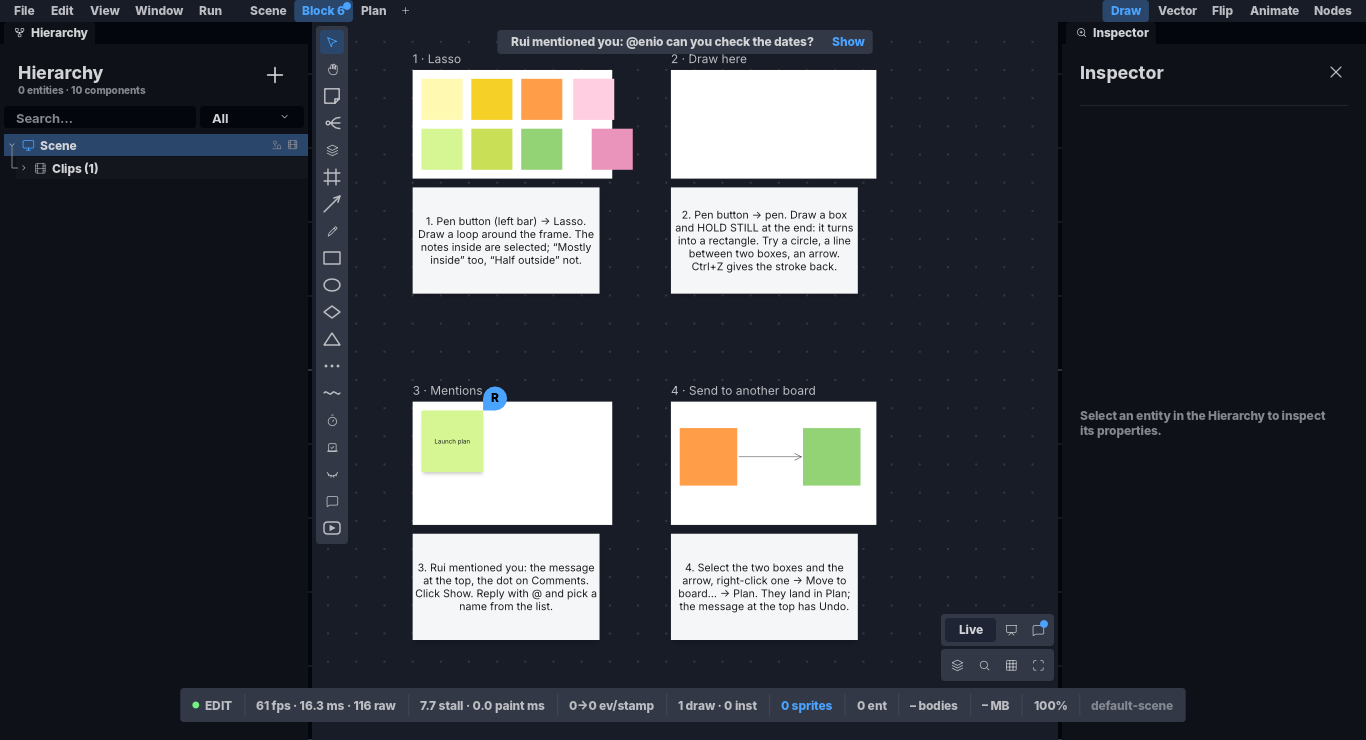
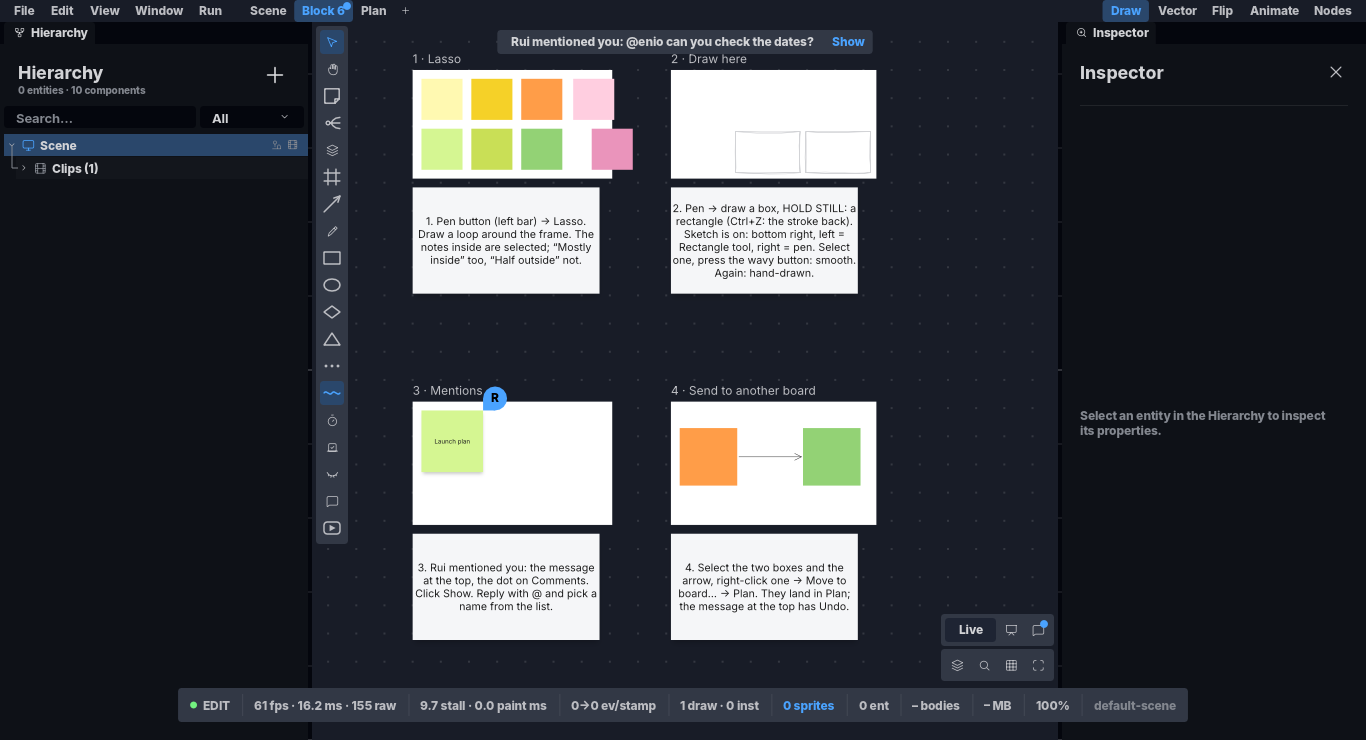
feat(MiroClone W23 Sketch): a cena 28 abre em Rascunho com a caixa da ferramenta e a da caneta em ② (nascidas ao zoom de abertura), a lição ② da ondinha, e as fotos a 1366 e 1930

diff --git a/crates/ph2d-app-board/src/smoke_w23_block6.rs b/crates/ph2d-app-board/src/smoke_w23_block6.rs
@@ -3,6 +3,8 @@
 //! «Plan» por trás. ① o laço (seis ideias dentro, uma quase toda dentro, uma meio fora); ② um frame
 //! vazio para desenhar e segurar; ③ uma nota com um fio do Rui que CHEGA ao abrir e chama quem está a
 //! usar o PH2D (o aviso, a bolinha); ④ duas caixas ligadas por uma seta para «Move to board…».
+//! O quadro abre em RASCUNHO, com um rectângulo da ferramenta e um da caneta no canto de ② nascidos ao
+//! zoom de abertura a 1366 (auditoria do Sketch, 21/10: de longe o rascunho ficava liso).
 //! O gate `the_block6_scene_arms_its_four_stations` conduz o que a cena arma.
 
 use ph2d_board_model::{
@@ -24,6 +26,8 @@ pub(crate) struct Block6 {
     pub most: ElementId,
     pub half: ElementId,
     pub send: [ElementId; 3],
+    /// Os exemplos do rascunho em ②: o da ferramenta e o da caneta.
+    pub sketched: [ElementId; 2],
 }
 
 const SIDE: f64 = 140.0;
@@ -40,6 +44,12 @@ const F2: [f64; 4] = [F1[2] + 200.0, 0.0, 700.0, F1[3]];
 const ROW2: f64 = F1[3] + 760.0;
 const F3: [f64; 4] = [0.0, ROW2, F1[2], 420.0];
 const F4: [f64; 4] = [F2[0], ROW2, F2[2], 420.0];
+/// Os exemplos do rascunho no canto de baixo à direita de ②: a caixa e o vão.
+const EXAMPLE: [f64; 2] = [220.0, 140.0];
+const EXAMPLE_GAP: f64 = 20.0;
+/// A escala de nascença dos exemplos: a do zoom com que a cena abre a 1366 (~0,293, um px = 3,4 do
+/// mundo; quartos de oitava, `BirthScale::of_px`).
+const OPEN_BIRTH: ph2d_board_model::BirthScale = ph2d_board_model::BirthScale(7);
 
 /// A cena; devolve os ids que o gate conduz.
 pub(crate) fn scene_block6(hero: &mut HeroScreen) -> Block6 {
@@ -82,6 +92,7 @@ pub(crate) fn scene_block6(hero: &mut HeroScreen) -> Block6 {
         [edge - 0.5 * SIDE, GAP + SIDE + GAP, SIDE],
     );
     super::organize::frame(doc, tr("board.smoke.b6.f2"), F2, None);
+    let sketched = examples(doc, &style);
     super::organize::frame(doc, tr("board.smoke.b6.f3"), F3, None);
     let launch = super::put_note(
         doc,
@@ -123,6 +134,7 @@ pub(crate) fn scene_block6(hero: &mut HeroScreen) -> Block6 {
             [f[0], f[1] + f[3] + GAP, f[2].min(2.0 * STICKY_SIDE * 1.6)],
         );
     }
+    set.get_mut(board).expect("acabou de nascer").sketch = true;
     document_tabs::load(hero, set);
     hero.documents.activate(Some(board));
     board_nav::show(hero, false, false);
@@ -151,7 +163,38 @@ pub(crate) fn scene_block6(hero: &mut HeroScreen) -> Block6 {
         most,
         half,
         send: [a, b, arrow],
+        sketched,
     }
+}
+
+/// ② — o rectângulo da FERRAMENTA e o da CANETA + segurar, em rascunho, nascidos ao zoom de abertura:
+/// o da caneta com a cor da caneta e o resto do estilo da ferramenta (a lei do `smart_style`).
+fn examples(
+    doc: &mut ph2d_board_model::BoardDoc,
+    style: &ph2d_board_model::Style,
+) -> [ElementId; 2] {
+    let mut tool = style.clone();
+    tool.fill = None;
+    tool.sketch = true;
+    tool.reborn(OPEN_BIRTH);
+    let mut pen = tool.clone();
+    let ink = ph2d_board_model::Rgba(ph2d_board_model::DEFAULT_INK);
+    (pen.stroke, pen.text_color) = (Some(ink), ink);
+    let y = F2[1] + F2[3] - EXAMPLE[1] - EXAMPLE_GAP;
+    let x = |k: f64| F2[0] + F2[2] - (2.0 - k) * (EXAMPLE[0] + EXAMPLE_GAP);
+    let at = |k: f64| [x(k), y, EXAMPLE[0], EXAMPLE[1]];
+    // Sem rótulo: a esta distância a letra (de mundo) é um risco; a lição ② diz qual é qual.
+    [(tool, 0.0), (pen, 1.0)].map(|(style, k)| {
+        let shape = ph2d_board_model::Shape {
+            kind: ShapeType::Rectangle,
+            style,
+            text: Default::default(),
+        };
+        let el = ph2d_board_model::Element::new_shape(doc.mint_id(), doc.z_on_top(), shape, at(k));
+        let id = el.id;
+        ph2d_board_model::BoardOp::Put(el).apply(doc);
+        id
+    })
 }
 
 fn now() -> i64 {

diff --git a/crates/ph2d-i18n/src/board_block6.rs b/crates/ph2d-i18n/src/board_block6.rs
@@ -18,8 +18,9 @@ pub(crate) fn tr(key: &str) -> Option<&'static str> {
              are selected; \u{201c}Mostly inside\u{201d} too, \u{201c}Half outside\u{201d} not."
         }
         "board.smoke.b6.l2" => {
-            "2. Pen button \u{2192} pen. Draw a box and HOLD STILL at the end: it turns into a \
-             rectangle. Try a circle, a line between two boxes, an arrow. Ctrl+Z gives the stroke back."
+            "2. Pen \u{2192} draw a box, HOLD STILL: a rectangle (Ctrl+Z: the stroke back). Sketch is \
+             on: bottom right, left = Rectangle tool, right = pen. Select one, press the wavy button: \
+             smooth. Again: hand-drawn."
         }
         "board.smoke.b6.l3" => {
             "3. Rui mentioned you: the message at the top, the dot on Comments. Click Show. \

diff --git a/crates/ph2d-app-board/src/smoke_w23_block6_tests.rs b/crates/ph2d-app-board/src/smoke_w23_block6_tests.rs
@@ -37,6 +37,14 @@ fn the_block6_scene_arms_its_four_stations() {
     );
     assert!(taken.contains(&s.most), "95 % dentro entra");
     assert!(!taken.contains(&s.half), "metade fora não entra");
+    // ② — o quadro em rascunho, e os dois exemplos à mão, nascidos ao zoom de abertura.
+    let b = h.documents.boards().get(s.board).expect("o quadro");
+    assert!(b.sketch, "o quadro abre em rascunho");
+    for id in s.sketched {
+        let st = b.doc.get(id).expect("o exemplo").style();
+        assert!(st.sketch && st.fill.is_none(), "{id:?} à mão, oco");
+        assert_eq!(st.birth, OPEN_BIRTH, "{id:?} nascido ao zoom de abertura");
+    }
     // ④ — a seta liga as duas caixas.
     let doc = &h.documents.boards().get(s.board).unwrap().doc;
     let c = doc
